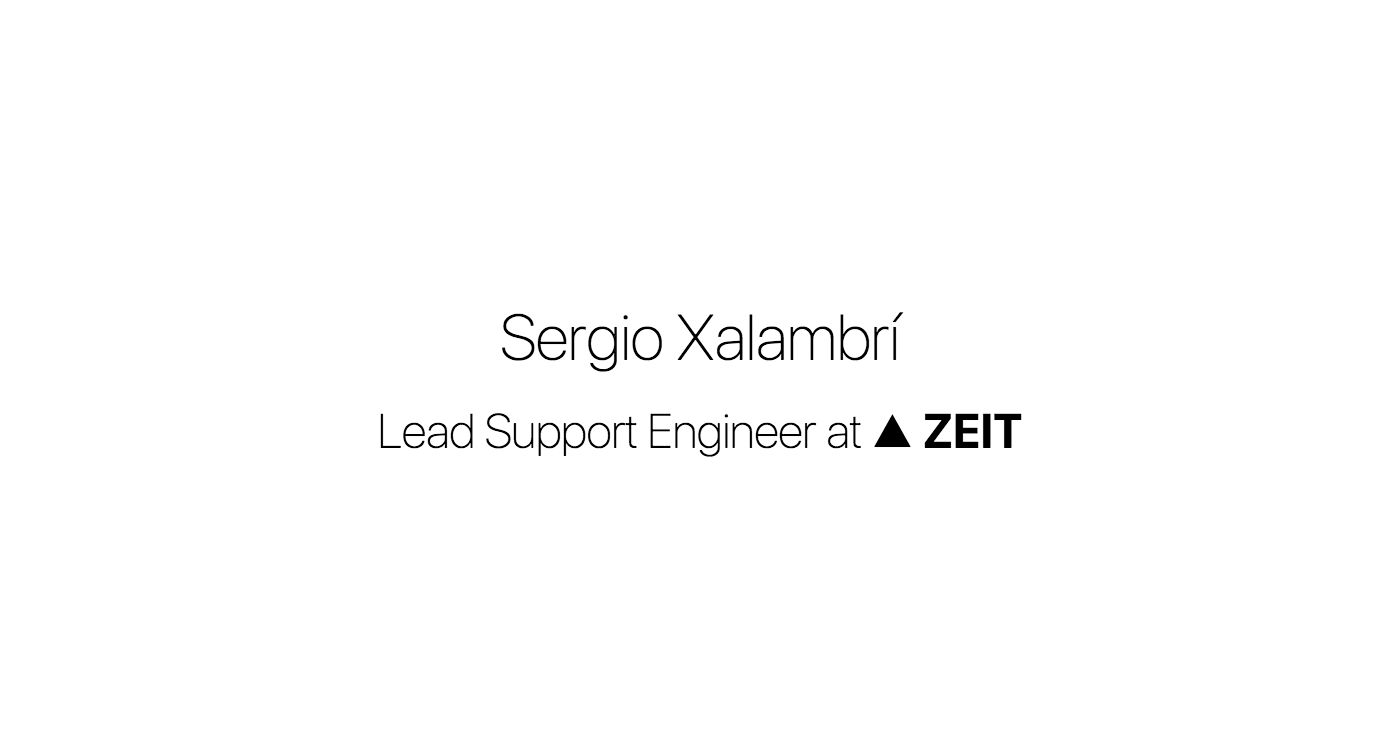
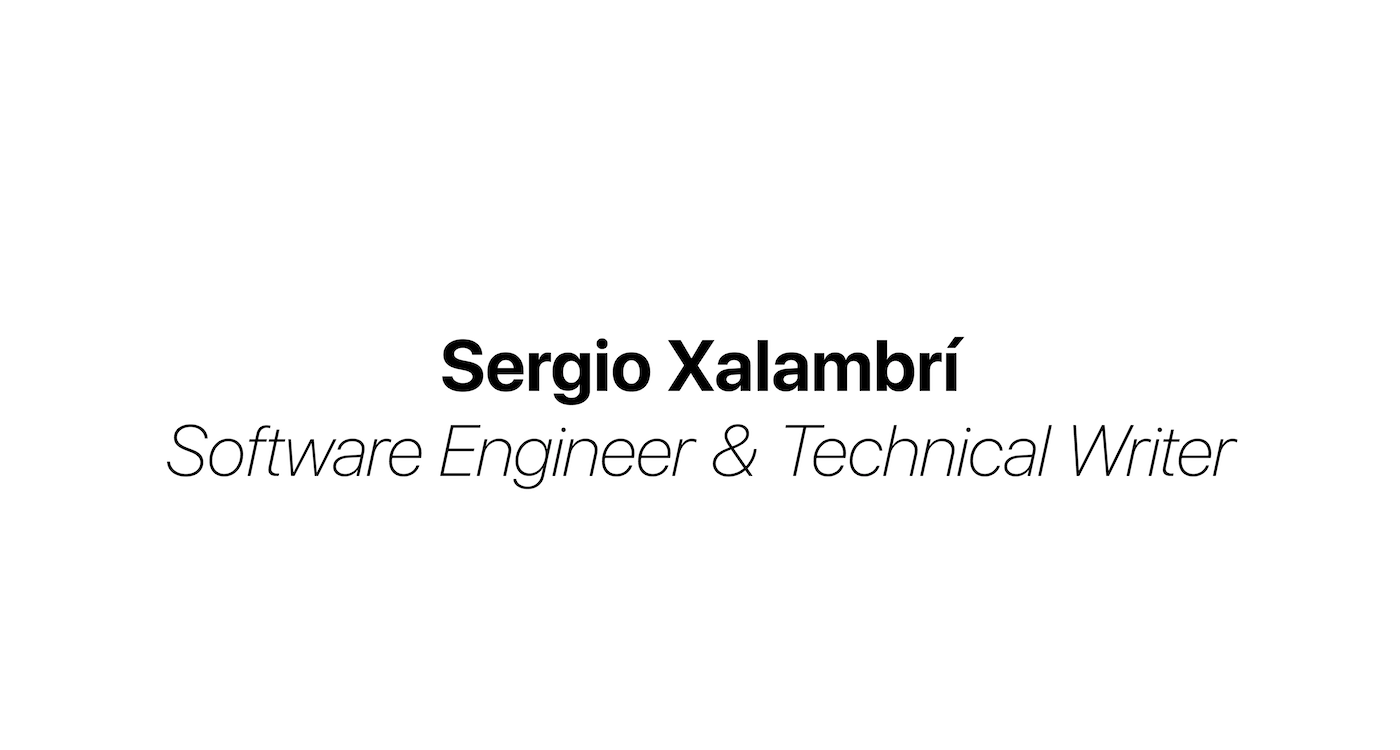
Update OG (#115)
* Update cover

* Remove unused image

* Update manifest

* Update OG and Twitter Card description

Changed region(s): [[0.1229, 0.4293, 0.8907, 0.644]]

diff --git a/components/open-graph.js b/components/open-graph.js
@@ -29,9 +29,9 @@ OpenGraph.propTypes = {
 OpenGraph.defaultProps = {
   type: "website",
     title: "Sergio Xalambrí",
-    description: "Lead Support Engineer at ▲ZEIT",
+    description: "Software Engineer & Technical Writer",
     image: "https://sergiodxa.com/static/open-graph.png",
-    imageAlt: "Sergio Xalambrí - Lead Support Engineer at ▲ZEIT",
+    imageAlt: "Sergio Xalambrí - Software Engineer & Technical Writer",
     url: "https://sergiodxa.com/",
     siteName: "Sergio Xalambrí",
     locale: "en"

diff --git a/components/twitter-card.js b/components/twitter-card.js
@@ -33,7 +33,7 @@ TwitterCard.defaultProps = {
   creator: "@sergiodxa",
   url: "https://sergiodxa.com/",
   title: "Sergio Xalambrí",
-  description: "Lead Support Engineer at ▲ZEIT",
+  description: "Software Engineer & Technical Writer",
   image: "https://sergiodxa.com/static/open-graph.png",
   summary: "Sergio Xalambrí's personal website"
 }
